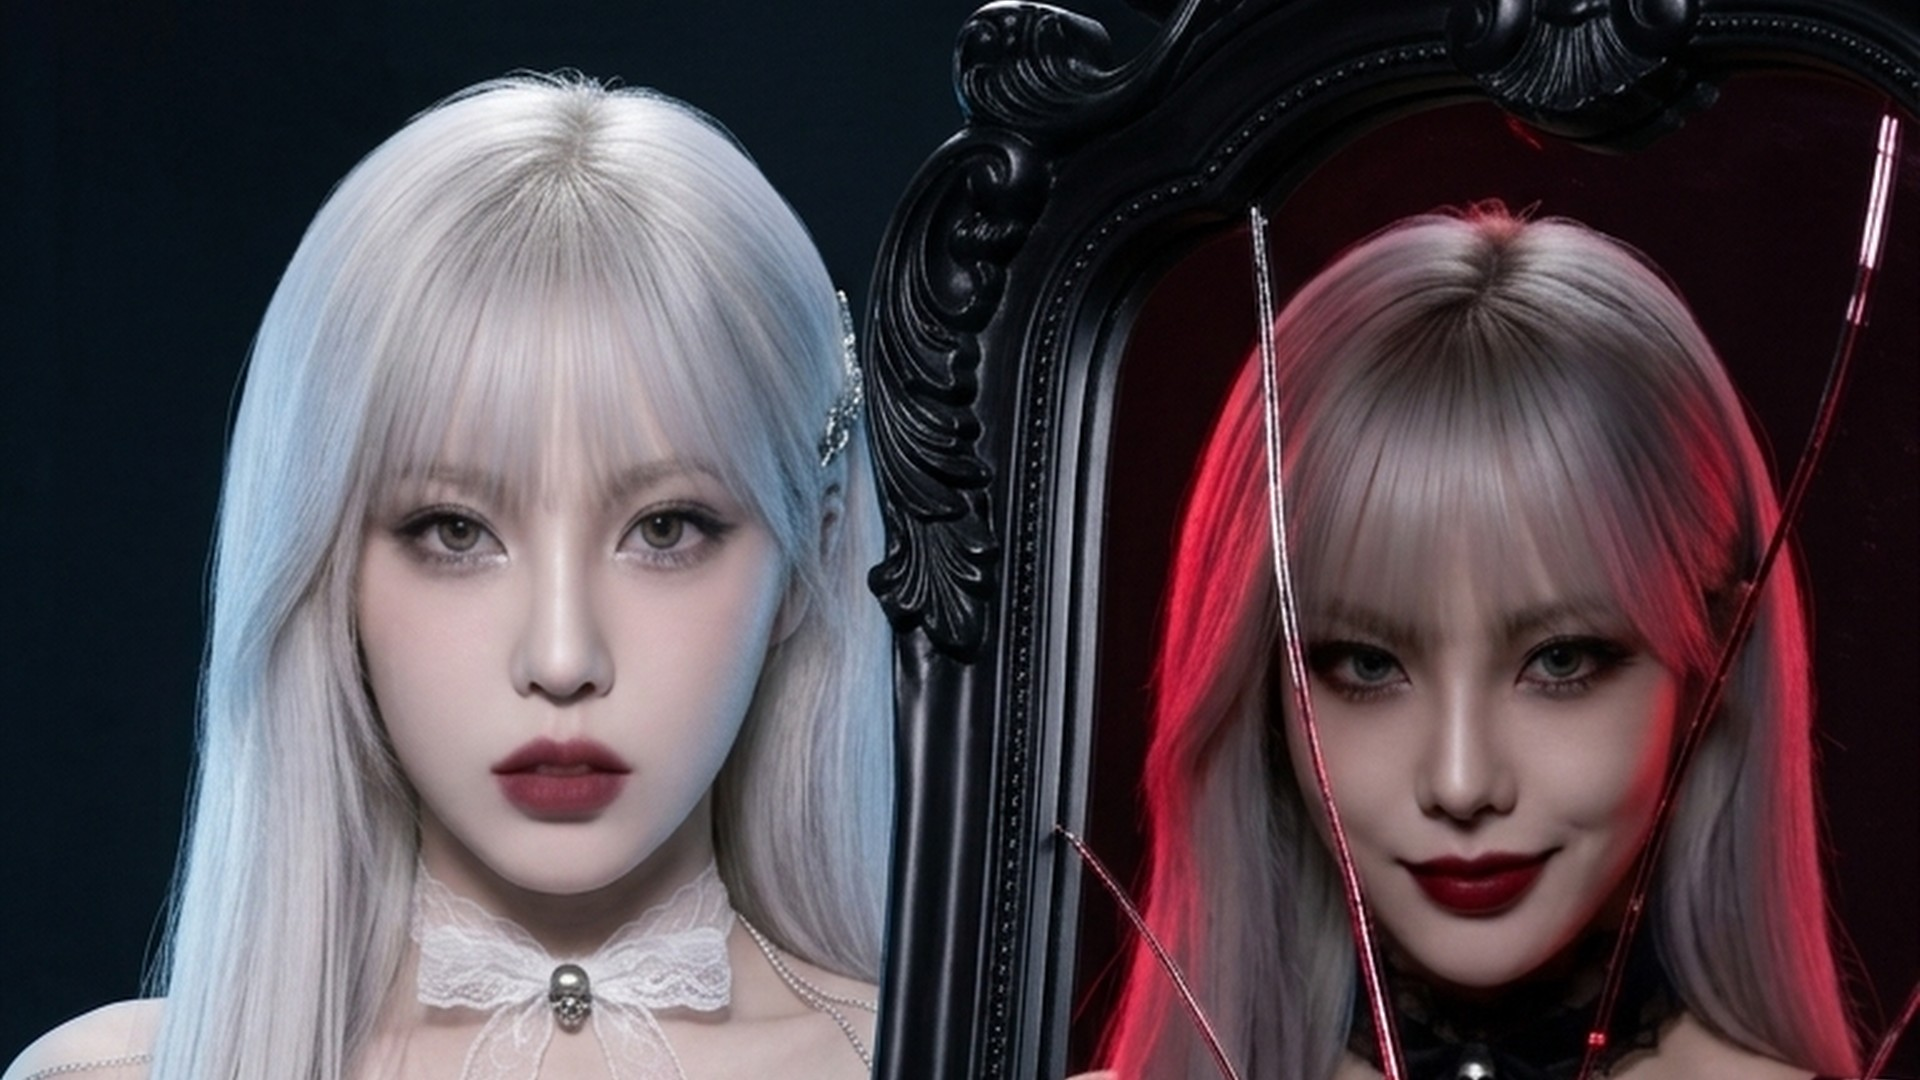
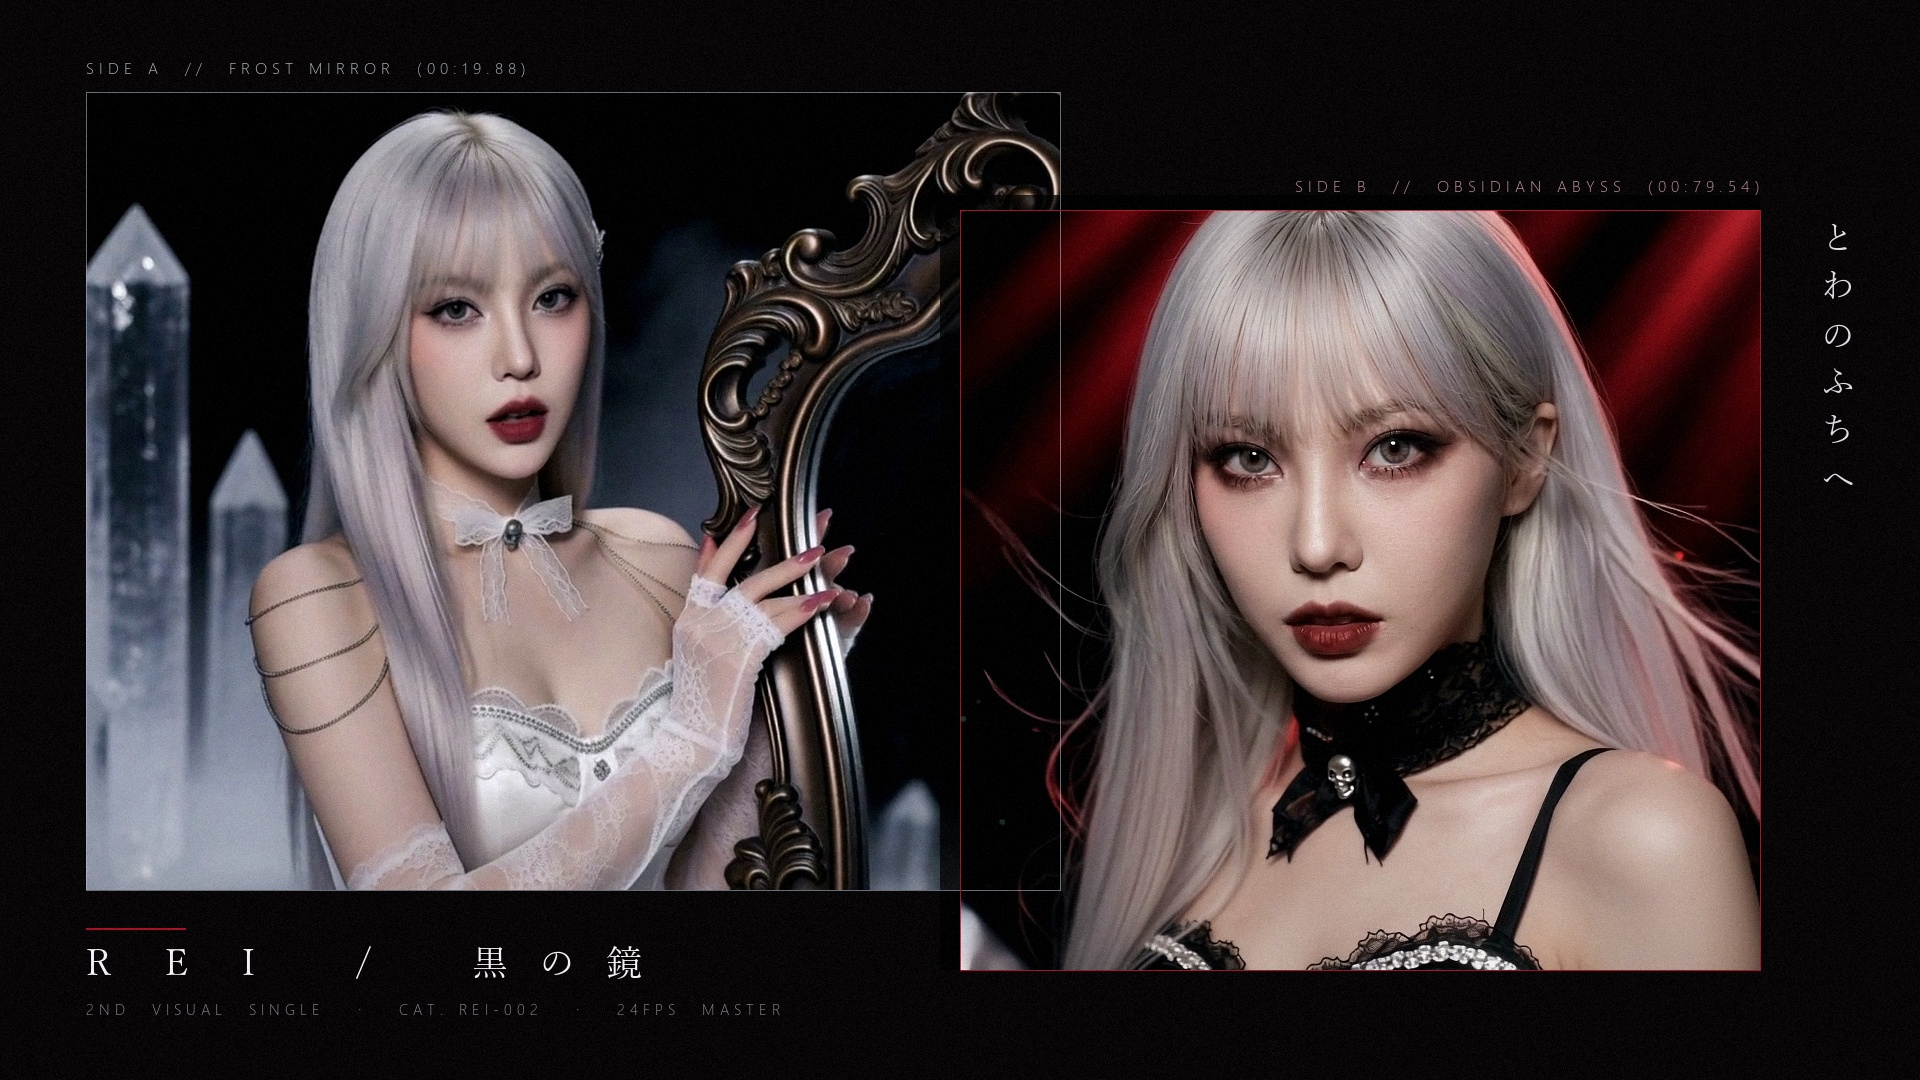
style(mv2): upgrade #01 MV2 cover to Type III overlapping diptyque editorial poster

diff --git a/index.html b/index.html
@@ -199,7 +199,7 @@
         
         <!-- Left 16:9 Interactive MV Preview Stage -->
         <div class="featured-media-stage">
-          <div class="featured-poster" id="reiFeaturedPoster" style="background-image: url('assets/images/01_rei_mv2_poster.jpg');"></div>
+          <div class="featured-poster" id="reiFeaturedPoster" style="background-image: url('assets/images/01_rei_mv2_poster.jpg?v=2');"></div>
           <video class="featured-hover-video" id="reiHoverVideo" src="assets/videos/rei_mv2_hover.mp4" muted loop playsinline preload="metadata"></video>
           <div class="featured-stage-vignette"></div>
 
@@ -1721,7 +1721,7 @@
           
           <!-- 16:9 Cinema MV Player -->
           <div style="background: #000; border: 1px solid rgba(194,156,109,0.38); border-radius: 1.25rem; overflow: hidden; box-shadow: 0 25px 70px rgba(0,0,0,0.85); margin-bottom: 1.8rem;">
-            <video id="reiMvPlayer" src="assets/videos/rei_mv2_official.mp4" poster="assets/images/01_rei_mv2_poster.jpg" controls playsinline preload="metadata" style="width: 100%; display: block; aspect-ratio: 16 / 9; background: #000;"></video>
+            <video id="reiMvPlayer" src="assets/videos/rei_mv2_official.mp4" poster="assets/images/01_rei_mv2_poster.jpg?v=2" controls playsinline preload="metadata" style="width: 100%; display: block; aspect-ratio: 16 / 9; background: #000;"></video>
             <div style="padding: 1rem 1.5rem; background: rgba(10,12,18,0.9); border-top: 1px solid rgba(255,255,255,0.07); display: flex; justify-content: space-between; align-items: center; flex-wrap: wrap; gap: 0.6rem;">
               <div>
                 <strong id="reiModalTrackTitle" style="color: #fff; font-size: 0.92rem;">《零 — とわのふちへ (Official MV)》鏡中雙生商業電影母帶 (1080p 24fps)</strong>
@@ -1917,7 +1917,7 @@
 
   <!-- Scripts -->
   <script src="js/tech-data.js"></script>
-  <script src="js/script.js?v=2026112601"></script>
+  <script src="js/script.js?v=2026112801"></script>
   <script>
     if (typeof gsap !== 'undefined' && typeof ScrollTrigger !== 'undefined') {
       gsap.registerPlugin(ScrollTrigger);

diff --git a/js/script.js b/js/script.js
@@ -401,7 +401,7 @@ function switchWorkflowTab(tabId) {
 // Modal 01: Virtual Idol "Rei" Dual-Track MV Theater & Vocal R&D
 const REI_MV_TRACKS = {
   mv2: {
-    poster: 'assets/images/01_rei_mv2_poster.jpg',
+    poster: 'assets/images/01_rei_mv2_poster.jpg?v=2',
     hoverVideo: 'assets/videos/rei_mv2_hover.mp4',
     fullVideo: 'assets/videos/rei_mv2_official.mp4',
     liveBadge: 'HOVER TO PREVIEW 14s MV · 2ND SINGLE MASTER',
